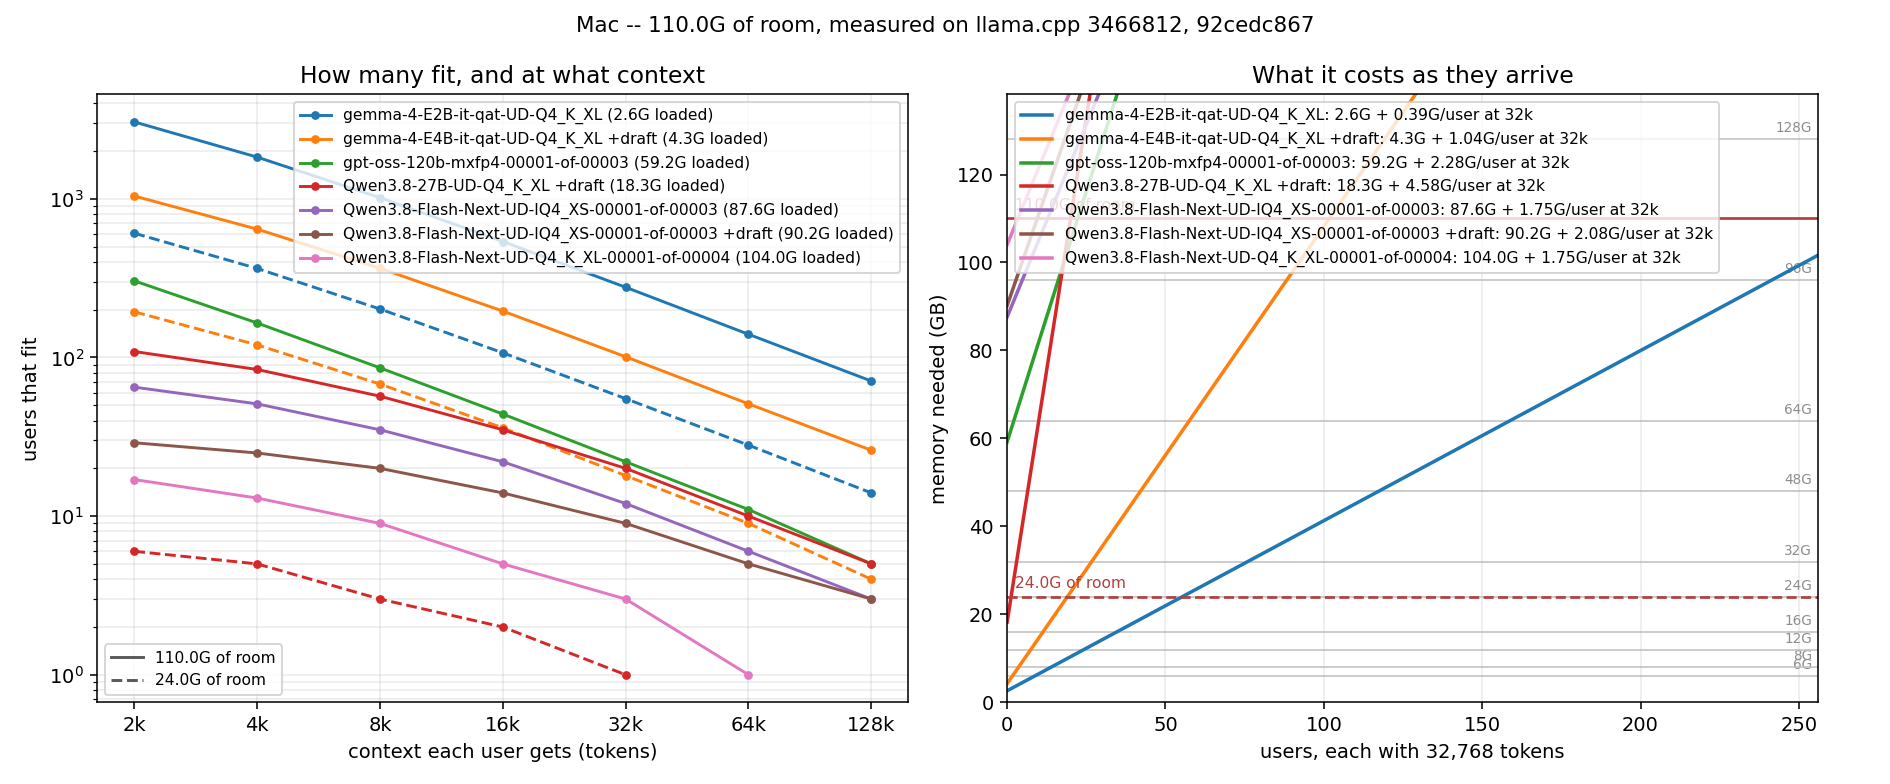
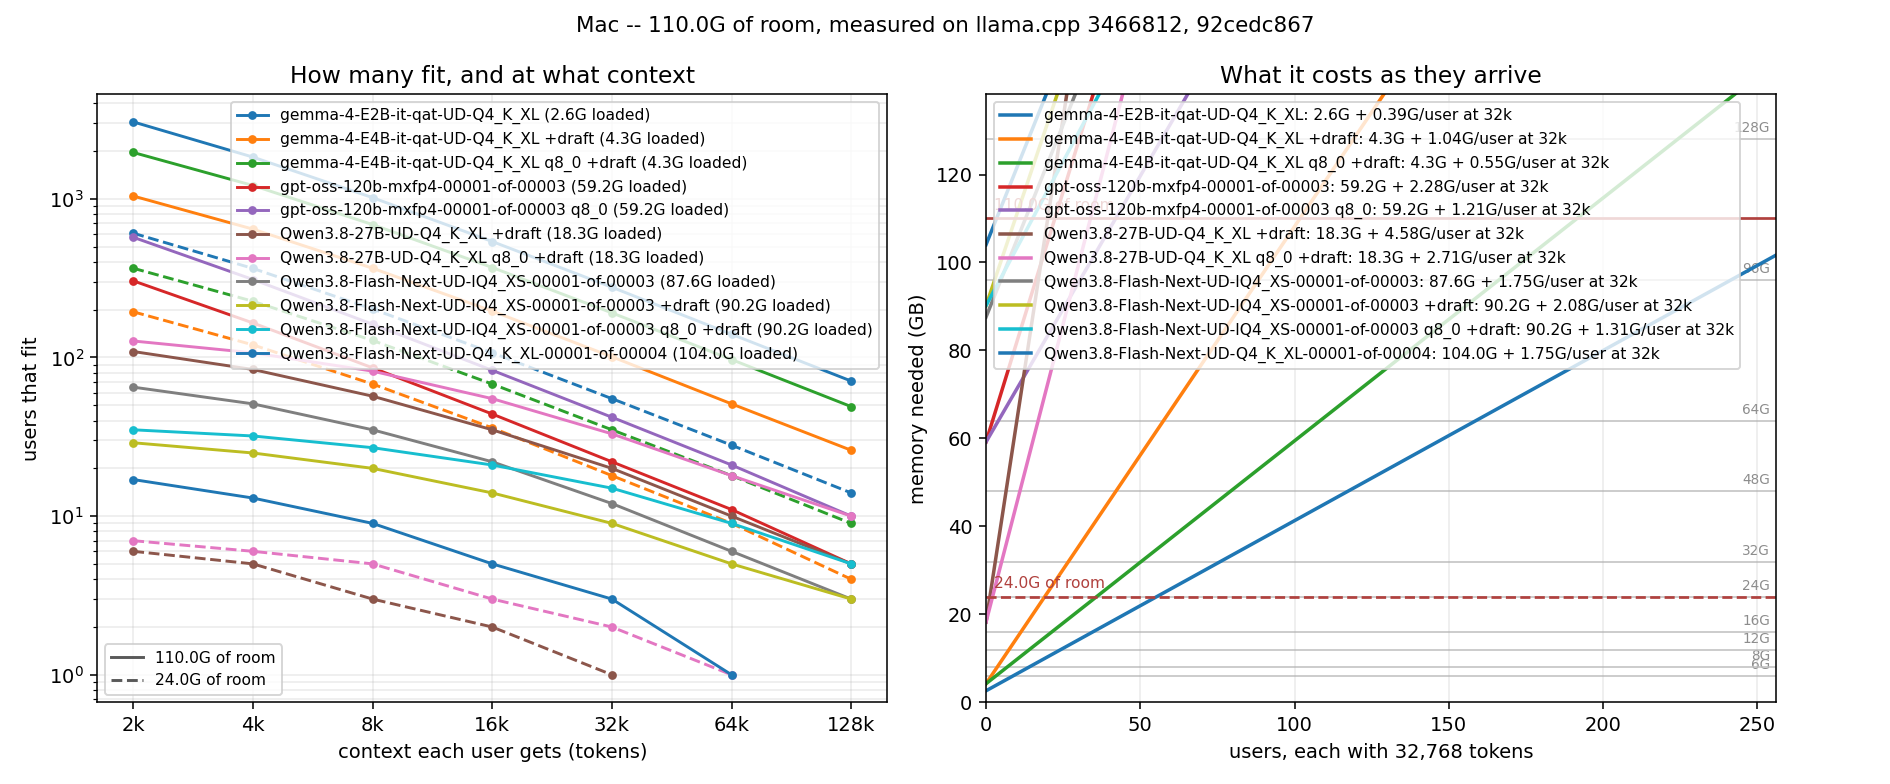
feat: q8_0 cache records for four models, measured
Flash-Next 48K -> 26K a token, gpt-oss 72K -> 38K, E4B 32K -> 17K, 27B 128K -> 68K; the
per-sequence state stays (f32 recurrent state and the head's own cache are not the KV).

Claude-Session: https://claude.ai/code/session_013YF4k127LDB2rTQXgWgZZT

diff --git a/docs/fit.md b/docs/fit.md
@@ -46,6 +46,26 @@ f16 cache, guessing ahead by draft-mtp, measured at 32,768 tokens over 2 slots, 
 
 One user, longest context: **3,463,598 tokens**.
 
+### gemma-4-E4B-it-qat-UD-Q4_K_XL.gguf
+
+q8_0 cache, guessing ahead by draft-mtp, measured at 32,768 tokens over 2 slots, build 3466812, 2026-09-02T18:55:08Z.
+
+- weights 3.9G, draft 56.9M, compute 277.3M
+- room 110.0G, of which 105.7G is left for caches
+- **17.0K per token of context**, **21.2M fixed per sequence**
+- 24 layers with a cache; a 1,024-cell sliding window per sequence
+
+| per user context | users that fit | each costs |
+| --- | --- | --- |
+| 4,096 | 1213 | 89.2M |
+| 8,192 | 688 | 157.2M |
+| 16,384 | 369 | 293.2M |
+| 32,768 | 191 | 565.2M |
+| 65,536 | 97 | 1.1G |
+| 131,072 | 49 | 2.1G |
+
+One user, longest context: **6,521,322 tokens**.
+
 ### gpt-oss-120b-mxfp4-00001-of-00003.gguf
 
 f16 cache, measured at 32,768 tokens over 2 slots, build 3466812, 2026-09-02T18:27:36Z.
@@ -66,6 +86,26 @@ f16 cache, measured at 32,768 tokens over 2 slots, build 3466812, 2026-09-02T18:
 
 One user, longest context: **739,285 tokens**.
 
+### gpt-oss-120b-mxfp4-00001-of-00003.gguf
+
+q8_0 cache, measured at 32,768 tokens over 2 slots, build 3466812, 2026-09-02T18:54:59Z.
+
+- weights 59.0G, compute 165.9M
+- room 110.0G, of which 50.8G is left for caches
+- **38.2K per token of context**, **14.3M fixed per sequence**
+- 36 layers with a cache; a 768-cell sliding window per sequence
+
+| per user context | users that fit | each costs |
+| --- | --- | --- |
+| 4,096 | 310 | 167.3M |
+| 8,192 | 162 | 320.3M |
+| 16,384 | 83 | 626.3M |
+| 32,768 | 42 | 1.2G |
+| 65,536 | 21 | 2.4G |
+| 131,072 | 10 | 4.8G |
+
+One user, longest context: **1,392,343 tokens**.
+
 ### Qwen3.8-27B-UD-Q4_K_XL.gguf
 
 f16 cache, guessing ahead by draft-mtp, measured at 32,768 tokens over 2 slots, build 3466812, 2026-09-02T18:26:25Z.
@@ -85,6 +125,26 @@ f16 cache, guessing ahead by draft-mtp, measured at 32,768 tokens over 2 slots, 
 | 131,072 | 5 | 16.6G |
 
 One user, longest context: **746,718 tokens**.
+
+### Qwen3.8-27B-UD-Q4_K_XL.gguf
+
+q8_0 cache, guessing ahead by draft-mtp, measured at 32,768 tokens over 2 slots, build 3466812, 2026-09-02T18:54:22Z.
+
+- weights 16.7G, draft 1.3G, compute 313.5M
+- room 110.0G, of which 91.7G is left for caches
+- **68.0K per token of context**, **598.5M fixed per sequence**
+- 16 layers with a cache; 64 recurrent (a fixed state per sequence, not per token)
+
+| per user context | users that fit | each costs |
+| --- | --- | --- |
+| 4,096 | 107 | 870.5M |
+| 8,192 | 82 | 1.1G |
+| 16,384 | 55 | 1.6G |
+| 32,768 | 33 | 2.7G |
+| 65,536 | 18 | 4.8G |
+| 131,072 | 10 | 9.1G |
+
+One user, longest context: **1,405,421 tokens**.
 
 ### Qwen3.8-Flash-Next-UD-IQ4_XS-00001-of-00003.gguf
 
@@ -125,6 +185,26 @@ f16 cache, guessing ahead by draft-mtp, measured at 32,768 tokens over 2 slots, 
 | 131,072 | 3 | 6.6G |
 
 One user, longest context: **419,897 tokens**.
+
+### Qwen3.8-Flash-Next-UD-IQ4_XS-00001-of-00003.gguf
+
+q8_0 cache, guessing ahead by draft-mtp, measured at 32,768 tokens over 2 slots, build 92cedc867, 2026-09-02T18:54:08Z.
+
+- weights 87.2G, draft 2.6G, compute 359.1M
+- room 110.0G, of which 19.8G is left for caches
+- **25.5K per token of context**, **526.8M fixed per sequence**
+- 24 layers with a cache; 48 recurrent (a fixed state per sequence, not per token); a 16,384-cell sliding window per sequence
+
+| per user context | users that fit | each costs |
+| --- | --- | --- |
+| 4,096 | 32 | 628.8M |
+| 8,192 | 27 | 730.8M |
+| 16,384 | 21 | 934.8M |
+| 32,768 | 15 | 1.3G |
+| 65,536 | 9 | 2.1G |
+| 131,072 | 5 | 3.7G |
+
+One user, longest context: **793,256 tokens**.
 
 ### Qwen3.8-Flash-Next-UD-Q4_K_XL-00001-of-00004.gguf
 
@@ -188,6 +268,26 @@ f16 cache, guessing ahead by draft-mtp, measured at 32,768 tokens over 2 slots, 
 
 One user, longest context: **645,550 tokens**.
 
+### gemma-4-E4B-it-qat-UD-Q4_K_XL.gguf
+
+q8_0 cache, guessing ahead by draft-mtp, measured at 32,768 tokens over 2 slots, build 3466812, 2026-09-02T18:55:08Z.
+
+- weights 3.9G, draft 56.9M, compute 277.3M
+- room 24.0G, of which 19.7G is left for caches
+- **17.0K per token of context**, **21.2M fixed per sequence**
+- 24 layers with a cache; a 1,024-cell sliding window per sequence
+
+| per user context | users that fit | each costs |
+| --- | --- | --- |
+| 4,096 | 226 | 89.2M |
+| 8,192 | 128 | 157.2M |
+| 16,384 | 68 | 293.2M |
+| 32,768 | 35 | 565.2M |
+| 65,536 | 18 | 1.1G |
+| 131,072 | 9 | 2.1G |
+
+One user, longest context: **1,216,761 tokens**.
+
 ### gpt-oss-120b-mxfp4-00001-of-00003.gguf
 
 f16 cache, measured at 32,768 tokens over 2 slots, build 3466812, 2026-09-02T18:27:36Z.
@@ -205,6 +305,26 @@ f16 cache, measured at 32,768 tokens over 2 slots, build 3466812, 2026-09-02T18:
 | 32,768 | 0 | 2.3G |
 | 65,536 | 0 | 4.5G |
 | 131,072 | 0 | 9.0G |
+
+One user, longest context: **0 tokens**.
+
+### gpt-oss-120b-mxfp4-00001-of-00003.gguf
+
+q8_0 cache, measured at 32,768 tokens over 2 slots, build 3466812, 2026-09-02T18:54:59Z.
+
+- weights 59.0G, compute 165.9M
+- room 24.0G, of which 0B is left for caches
+- **38.2K per token of context**, **14.3M fixed per sequence**
+- 36 layers with a cache; a 768-cell sliding window per sequence
+
+| per user context | users that fit | each costs |
+| --- | --- | --- |
+| 4,096 | 0 | 167.3M |
+| 8,192 | 0 | 320.3M |
+| 16,384 | 0 | 626.3M |
+| 32,768 | 0 | 1.2G |
+| 65,536 | 0 | 2.4G |
+| 131,072 | 0 | 4.8G |
 
 One user, longest context: **0 tokens**.
 
@@ -227,6 +347,26 @@ f16 cache, guessing ahead by draft-mtp, measured at 32,768 tokens over 2 slots, 
 | 131,072 | 0 | 16.6G |
 
 One user, longest context: **42,206 tokens**.
+
+### Qwen3.8-27B-UD-Q4_K_XL.gguf
+
+q8_0 cache, guessing ahead by draft-mtp, measured at 32,768 tokens over 2 slots, build 3466812, 2026-09-02T18:54:22Z.
+
+- weights 16.7G, draft 1.3G, compute 313.5M
+- room 24.0G, of which 5.7G is left for caches
+- **68.0K per token of context**, **598.5M fixed per sequence**
+- 16 layers with a cache; 64 recurrent (a fixed state per sequence, not per token)
+
+| per user context | users that fit | each costs |
+| --- | --- | --- |
+| 4,096 | 6 | 870.5M |
+| 8,192 | 5 | 1.1G |
+| 16,384 | 3 | 1.6G |
+| 32,768 | 2 | 2.7G |
+| 65,536 | 1 | 4.8G |
+| 131,072 | 0 | 9.1G |
+
+One user, longest context: **79,281 tokens**.
 
 ### Qwen3.8-Flash-Next-UD-IQ4_XS-00001-of-00003.gguf
 
@@ -265,6 +405,26 @@ f16 cache, guessing ahead by draft-mtp, measured at 32,768 tokens over 2 slots, 
 | 32,768 | 0 | 2.1G |
 | 65,536 | 0 | 3.6G |
 | 131,072 | 0 | 6.6G |
+
+One user, longest context: **0 tokens**.
+
+### Qwen3.8-Flash-Next-UD-IQ4_XS-00001-of-00003.gguf
+
+q8_0 cache, guessing ahead by draft-mtp, measured at 32,768 tokens over 2 slots, build 92cedc867, 2026-09-02T18:54:08Z.
+
+- weights 87.2G, draft 2.6G, compute 359.1M
+- room 24.0G, of which 0B is left for caches
+- **25.5K per token of context**, **526.8M fixed per sequence**
+- 24 layers with a cache; 48 recurrent (a fixed state per sequence, not per token); a 16,384-cell sliding window per sequence
+
+| per user context | users that fit | each costs |
+| --- | --- | --- |
+| 4,096 | 0 | 628.8M |
+| 8,192 | 0 | 730.8M |
+| 16,384 | 0 | 934.8M |
+| 32,768 | 0 | 1.3G |
+| 65,536 | 0 | 2.1G |
+| 131,072 | 0 | 3.7G |
 
 One user, longest context: **0 tokens**.
 
